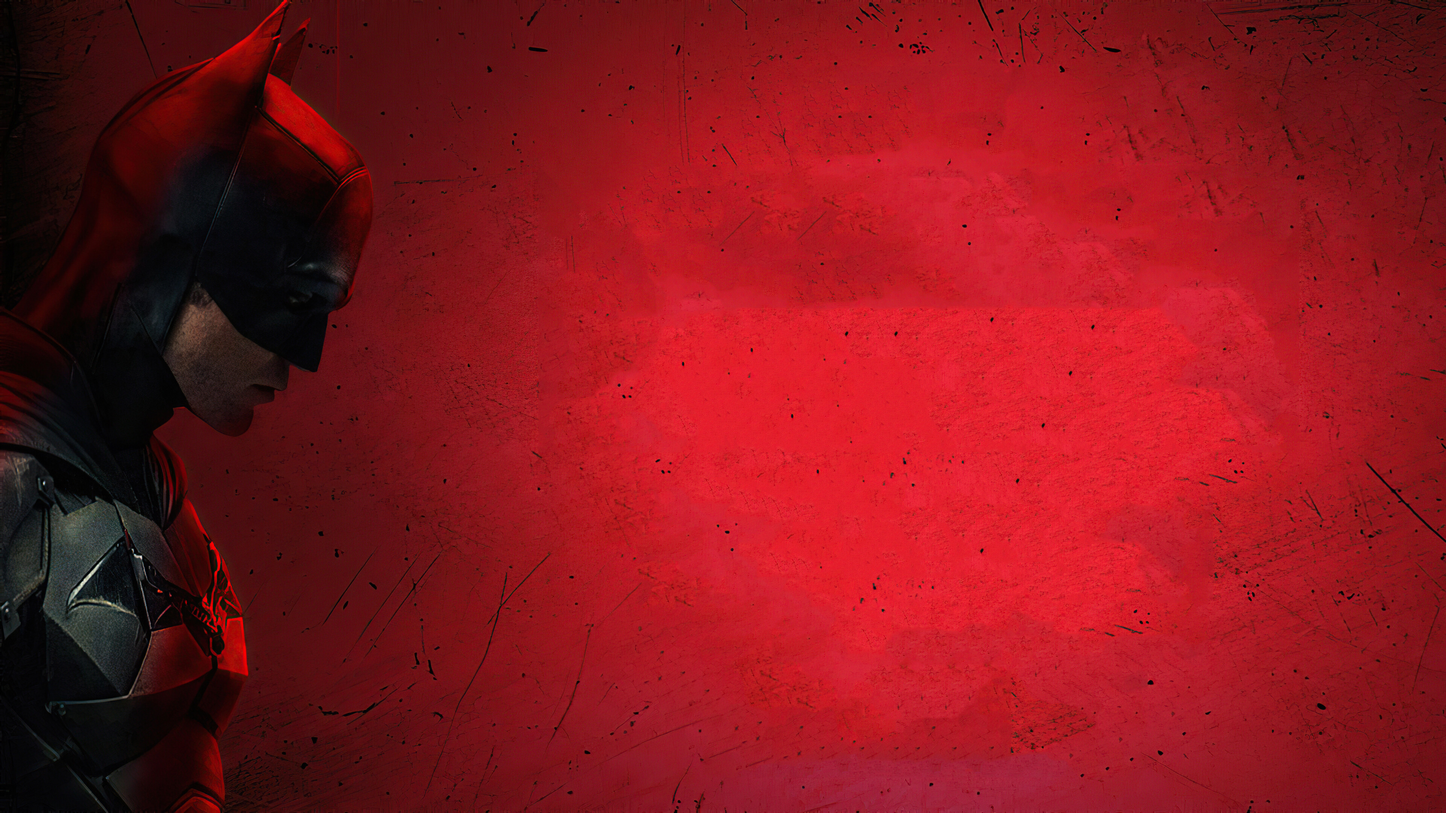
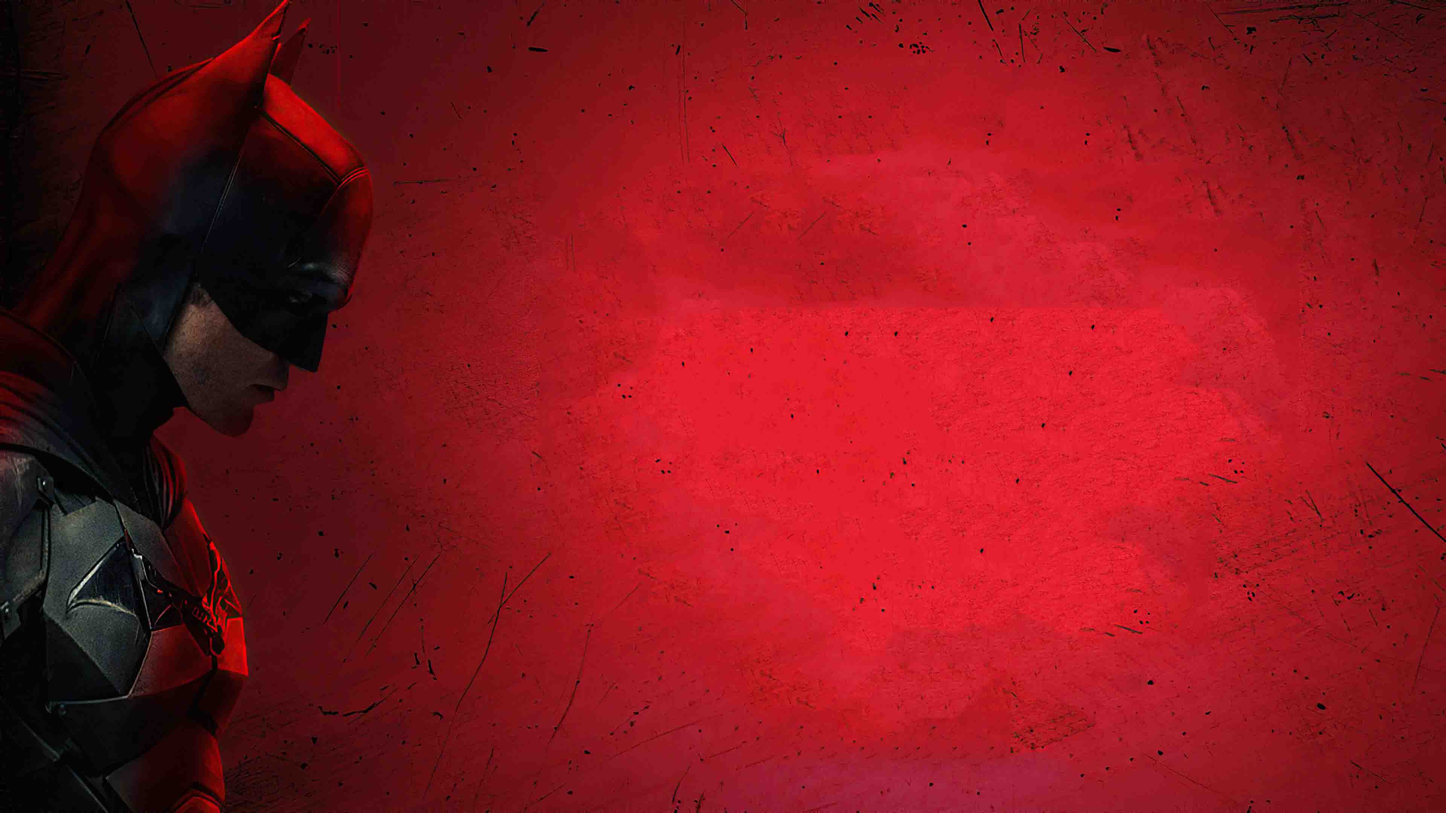
responsive topsection+ lighter images

Changed region(s): [[0.125, 0.7134, 0.1562, 0.7755], [0.6875, 0.031, 0.7188, 0.062], [0.5938, 0.0, 0.625, 0.031]]

diff --git a/index.html b/index.html
@@ -12,7 +12,7 @@
             <div class="ggmb">
                 <div class="nlinksmb"><a href=""><img src="Images/handcuff.png" alt=""></a></div>
                 <div class="nlinksmb"><a href=""><img src="Images/call.png" alt=""></a></div>
-                <div class="nlinksmb"><a href=""><img src="Images/handcuff.png" alt=""></a></div>
+                <div class="nlinksmb"><a href=""><img src="Images/Files.png" alt=""></a></div>
                 <div class="nlinksmb"><a href=""><img src="Images/question.png" alt=""></a></div>
             </div>
     </section>
@@ -28,8 +28,8 @@
                     <div class="nlink"><a href=""><img src="Images/call.png" alt=""></a></div>
                 </div>
                 <div class="nlinks">
-                    <div class="ntext"><a href=""><p>Who am I?</p></a></div>
-                    <div class="nlink"><a href=""><img src="Images/question.png" alt=""></a></div>
+                    <div class="ntext"><a href=""><p>Case Files</p></a></div>
+                    <div class="nlink"><a href=""><img src="Images/Files.png" alt=""></a></div>
                 </div>
                 <div class="nlinks">
                     <div class="ntext"><a href=""><p>Who am I?</p></a></div>

diff --git a/style.css b/style.css
@@ -84,7 +84,7 @@
     justify-content: center;
     align-items: center;
     background-color: rgb(71, 32, 32);
-    background-image: url(Images/entr.png);
+    background-image: url(Images/entr.jpg);
 }
 .boxx{
     width: 80%;
@@ -106,7 +106,7 @@
 
 }
 .hero-right h1{
-    color: rgb(210, 3, 11);
+    color: rgb(255, 101, 101);
 }
 .hero-right p{
     color: hsl(32, 42%, 33%);
@@ -292,6 +292,31 @@
             height: 40px;
             width: 40px;
         } 
+
+        .Hero{
+            height: 100vh;
+            width: 100vw;
+        }
+        .boxx{
+            height: 90%;
+            width: 90%;
+            display: flex;
+            flex-direction: column;
+            justify-content: left;
+
+        }
+        .hero-right{
+            width: 100%;
+            height: 60%;
+        }
+        .heroimage{
+            width: 80vw;
+            height: 25%;
+        }
+        .hero-right h1{
+            font-size: 70px;
+        }
+
 }
 @media (min-width:1200px){
     .navbermb{
